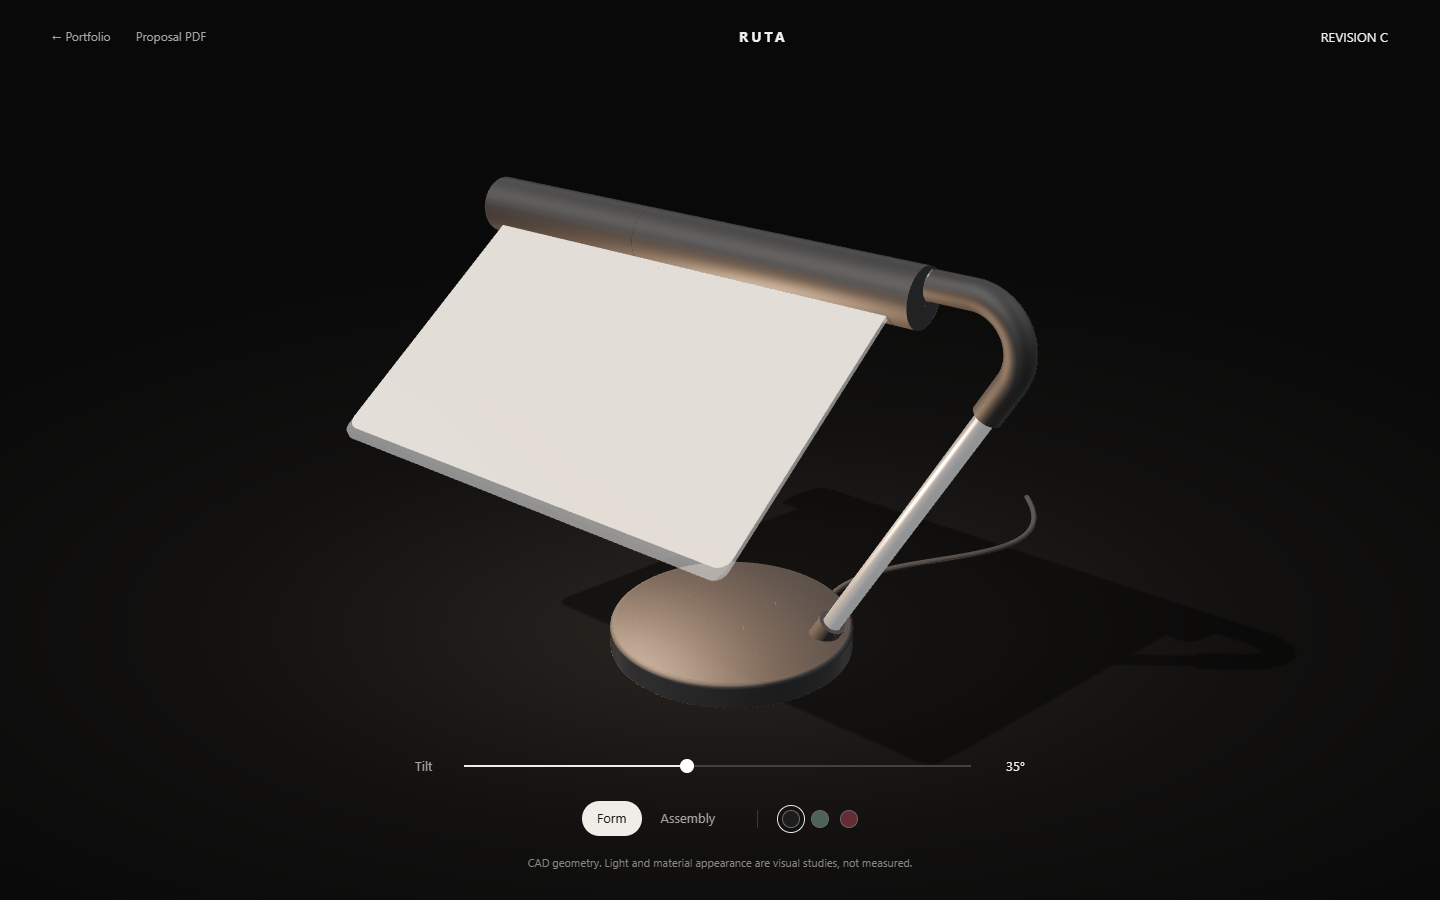
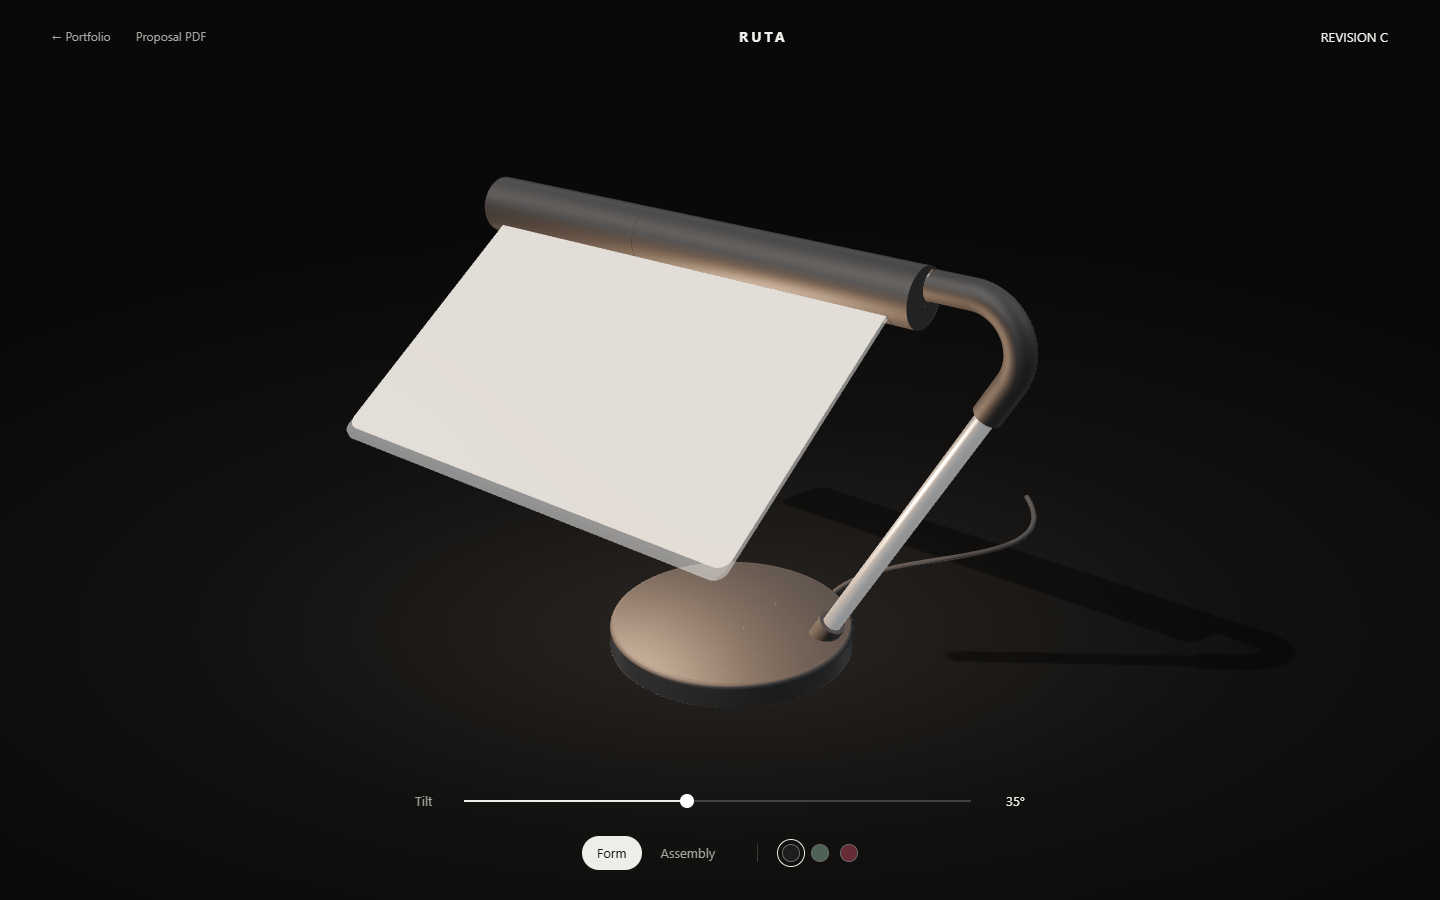
RUTA: remove redundant model viewer text

Changed region(s): [[0.375, 0.84, 0.625, 0.9644]]

diff --git a/ruta/northern/model.html b/ruta/northern/model.html
@@ -36,22 +36,20 @@ input[type=range]::-moz-range-thumb{width:14px;height:14px;border:0;border-radiu
 .finish{display:flex;align-items:center;gap:11px;margin-left:12px;border-left:1px solid var(--rule);padding-left:24px}
 .finish button{border:1px solid #666;width:18px;height:18px;border-radius:50%;cursor:pointer;outline-offset:4px}
 .finish button[aria-pressed=true]{outline:1px solid #eceae3}
-.note{font-size:11px;color:#888782;text-align:center;margin:0}
-@media(max-width:580px){header{top:calc(env(safe-area-inset-top,0px) + 17px)}.controls{bottom:calc(env(safe-area-inset-bottom,0px) + 18px);gap:12px}.options{gap:10px}.finish{padding-left:15px;margin-left:5px;gap:10px}nav{gap:14px}.note{max-width:320px;font-size:10px}}
+@media(max-width:580px){header{top:calc(env(safe-area-inset-top,0px) + 17px)}.controls{bottom:calc(env(safe-area-inset-bottom,0px) + 18px);gap:12px}.options{gap:10px}.finish{padding-left:15px;margin-left:5px;gap:10px}nav{gap:14px}}
 </style>
 <script type="importmap">{"imports":{"three":"https://cdn.jsdelivr.net/npm/three@0.170.0/build/three.module.min.js","three/addons/":"https://cdn.jsdelivr.net/npm/three@0.170.0/examples/jsm/"}}</script>
 </head>
 <body>
 <canvas id="scene" aria-label="Three-dimensional CAD model of RUTA revision C, draggable to rotate"></canvas>
 <header><nav><a href="./">← Portfolio</a><a href="RUTA-Northern-design-proposal.pdf">Proposal PDF</a></nav><strong>RUTA</strong><span>REVISION C</span></header>
-<p id="state" role="status">Loading CAD model</p>
+<p id="state" role="status"></p>
 <div class="controls">
 <div class="tilt"><label for="tilt">Tilt</label><input id="tilt" type="range" min="0" max="80" step="1" value="35" style="--fill:44%"><output for="tilt" id="angle">35°</output></div>
 <div class="options">
 <div class="mode" role="group" aria-label="View mode"><button type="button" data-mode="form" aria-pressed="true">Form</button><button type="button" data-mode="parts" aria-pressed="false">Assembly</button></div>
 <div class="finish" role="group" aria-label="Finish study"><button type="button" aria-label="Matte black" data-finish="black" aria-pressed="true" style="background:#1d1d1e"></button><button type="button" aria-label="Muted green" data-finish="green" aria-pressed="false" style="background:#4e6355"></button><button type="button" aria-label="Oxblood" data-finish="red" aria-pressed="false" style="background:#662c35"></button></div>
 </div>
-<p class="note">CAD geometry. Light and material appearance are visual studies, not measured.</p>
 </div>
 <script type="module">
 import * as THREE from 'three';
